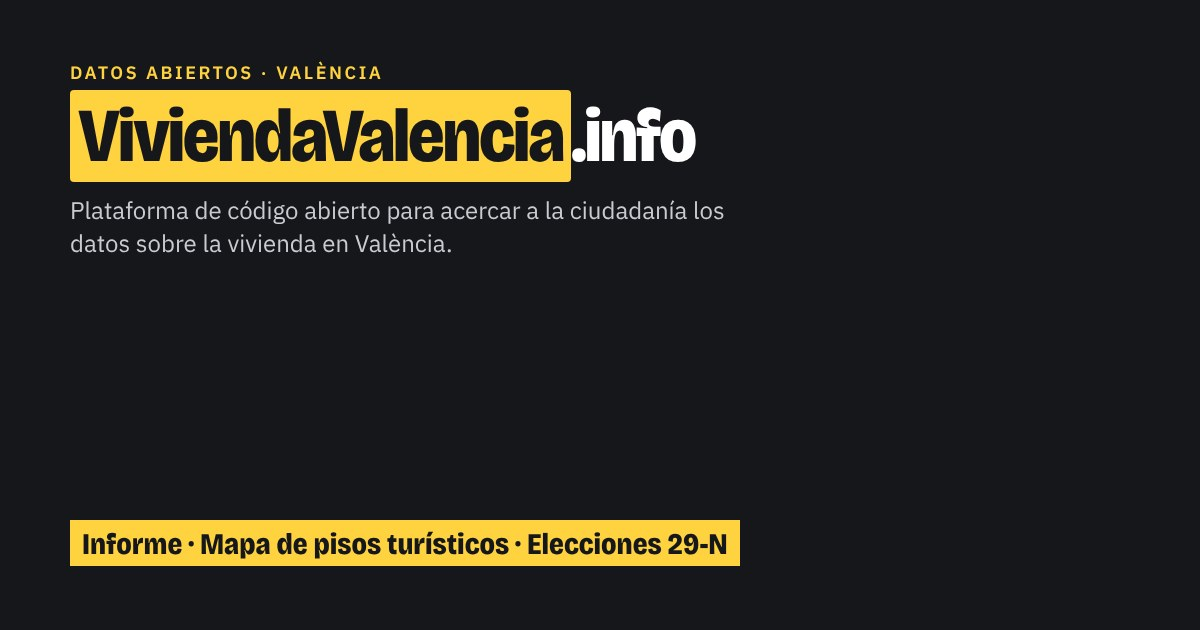
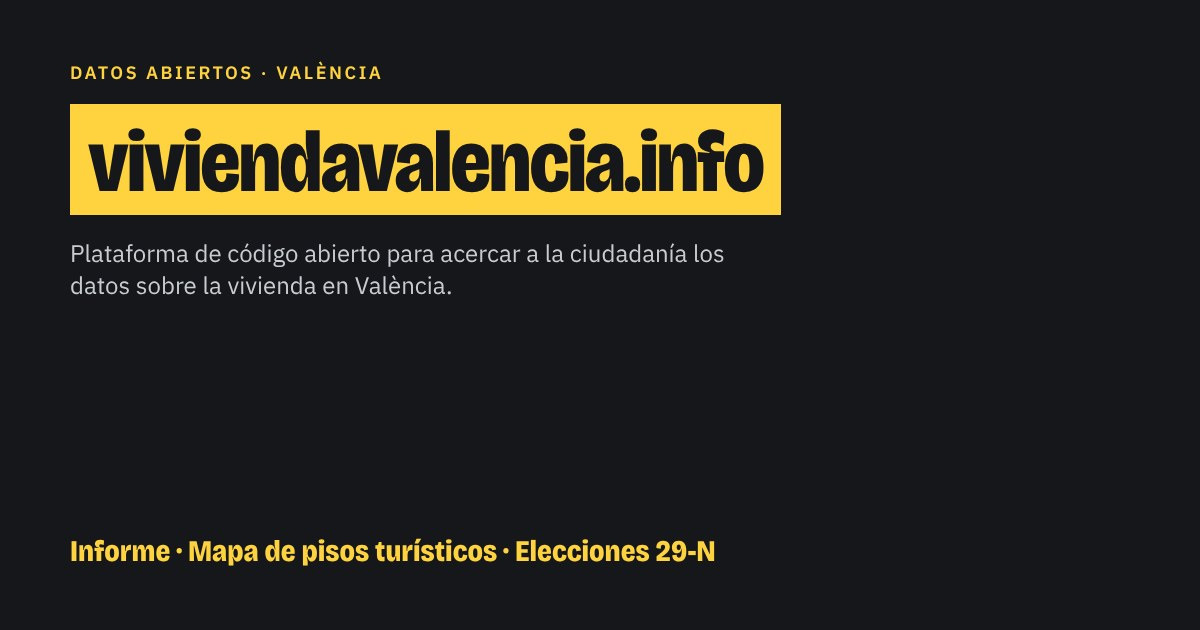
Portada: titulo con el logotipo de la marca
Claude-Session: https://claude.ai/code/session_01EdiHEFQZnrrgvrv1MBQVo1

Changed region(s): [[0.0308, 0.1206, 0.6783, 0.4825], [0.0308, 0.8143, 0.6167, 0.9048]]

diff --git a/index.html b/index.html
@@ -298,8 +298,8 @@ a.arch{font-size:.85em;color:var(--muted);margin-left:4px}
 .land{max-width:1040px;margin:0 auto;padding:0 max(16px,env(safe-area-inset-right,0px)) 70px max(16px,env(safe-area-inset-left,0px))}
 .land header{padding:56px 0 18px}
 .land .kick{font:600 12.5px/1 var(--body);letter-spacing:.12em;text-transform:uppercase;color:var(--muted);margin:0 0 14px}
-.land h1{font:800 clamp(34px,10.6vw,104px)/.92 var(--display);font-variation-settings:"wdth" 86;letter-spacing:-.035em;margin:0 0 18px;max-width:none}
-.land h1 span{background:linear-gradient(transparent 58%,var(--hl) 58%,var(--hl) 92%,transparent 92%)}
+.land h1{margin:0 0 22px;max-width:none;font-size:inherit;line-height:1}
+.land h1 .logo{display:inline-block;font:800 clamp(29px,9.6vw,96px)/1 var(--display);font-variation-settings:"wdth" 85;font-stretch:85%;letter-spacing:-.02em;background:var(--mark);color:var(--mark-ink);padding:.2em .26em .13em;white-space:nowrap}
 .land .dek{font-size:clamp(19px,2.2vw,24px);line-height:1.38;max-width:34ch;margin:0 0 12px}
 .land .sub2{font-size:15px;color:var(--muted);max-width:62ch;margin:0}
 .secs{display:grid;grid-template-columns:repeat(4,minmax(0,1fr));gap:12px;margin:28px 0 8px}
@@ -332,7 +332,7 @@ a.arch{font-size:.85em;color:var(--muted);margin-left:4px}
 <main class="land" id="top">
 <header>
   <p class="kick">Datos a octubre de 2026</p>
-  <h1><span>ViviendaValencia</span><wbr>.info</h1>
+  <h1><span class="logo">viviendavalencia.info</span></h1>
   <p class="dek">Plataforma de código abierto para acercar a la ciudadanía los datos sobre la vivienda en València.</p>
   <p class="sub2">Estadísticas oficiales, registros públicos y estudios, con la fuente de cada cifra. Sin publicidad, sin cookies y sin afiliación a ningún partido.</p>
   <nav class="secs" aria-label="Secciones"><a class="sec sec-a" href="informe-vivienda-valencia.html"><b>Informe completo</b><span>Precios, rentas, hogares, propietarios, pisos turísticos, vivienda pública y gasto, con una ficha de fuente detrás de cada cifra y un explorador para cruzar indicadores.</span><i aria-hidden="true">→</i></a><a class="sec sec-b" href="pisos-turisticos-valencia.html"><b>Mapa de pisos turísticos</b><span>Los 7.968 anuncios de Airbnb de la ciudad, uno a uno, con su registro y su anfitrión, y el peso del alquiler turístico en cada barrio.</span><i aria-hidden="true">→</i></a><a class="sec sec-c" href="elecciones-29n.html"><b>Elecciones del 29-N</b><span>Qué dicen los partidos sobre vivienda, qué decide cada administración y qué hizo cada partido cuando gobernó.</span><i aria-hidden="true">→</i></a><a class="sec sec-d" href="https://github.com/danilm99/viviendavalencia" target="_blank" rel="noopener"><b>Datos y código abiertos</b><span>Todo el código y los datos de la web, con licencia libre, para comprobar de dónde sale cada cifra o reutilizarlos.</span><i aria-hidden="true">→</i></a></nav>

diff --git a/codigo/informe/build_landing.py b/codigo/informe/build_landing.py
@@ -52,8 +52,8 @@ CSS = """
 .land{max-width:1040px;margin:0 auto;padding:0 max(16px,env(safe-area-inset-right,0px)) 70px max(16px,env(safe-area-inset-left,0px))}
 .land header{padding:56px 0 18px}
 .land .kick{font:600 12.5px/1 var(--body);letter-spacing:.12em;text-transform:uppercase;color:var(--muted);margin:0 0 14px}
-.land h1{font:800 clamp(34px,10.6vw,104px)/.92 var(--display);font-variation-settings:"wdth" 86;letter-spacing:-.035em;margin:0 0 18px;max-width:none}
-.land h1 span{background:linear-gradient(transparent 58%,var(--hl) 58%,var(--hl) 92%,transparent 92%)}
+.land h1{margin:0 0 22px;max-width:none;font-size:inherit;line-height:1}
+.land h1 .logo{display:inline-block;font:800 clamp(29px,9.6vw,96px)/1 var(--display);font-variation-settings:"wdth" 85;font-stretch:85%;letter-spacing:-.02em;background:var(--mark);color:var(--mark-ink);padding:.2em .26em .13em;white-space:nowrap}
 .land .dek{font-size:clamp(19px,2.2vw,24px);line-height:1.38;max-width:34ch;margin:0 0 12px}
 .land .sub2{font-size:15px;color:var(--muted);max-width:62ch;margin:0}
 .secs{display:grid;grid-template-columns:repeat(4,minmax(0,1fr));gap:12px;margin:28px 0 8px}
@@ -112,7 +112,7 @@ BODY = f"""<body>
 {bar("inicio")}<main class="land" id="top">
 <header>
   <p class="kick">Datos a {fecha}</p>
-  <h1><span>ViviendaValencia</span><wbr>.info</h1>
+  <h1><span class="logo">viviendavalencia.info</span></h1>
   <p class="dek">Plataforma de código abierto para acercar a la ciudadanía los datos sobre la vivienda en València.</p>
   <p class="sub2">Estadísticas oficiales, registros públicos y estudios, con la fuente de cada cifra. Sin publicidad, sin cookies y sin afiliación a ningún partido.</p>
   <nav class="secs" aria-label="Secciones">{cards}</nav>
